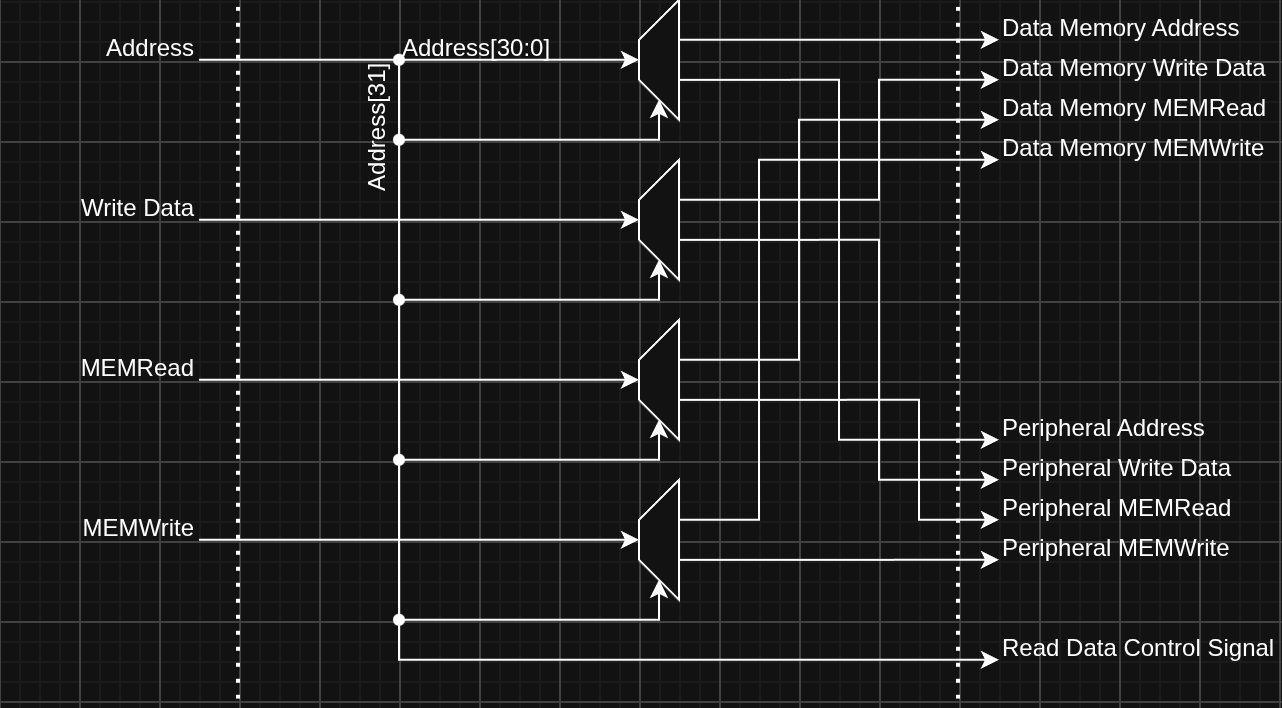
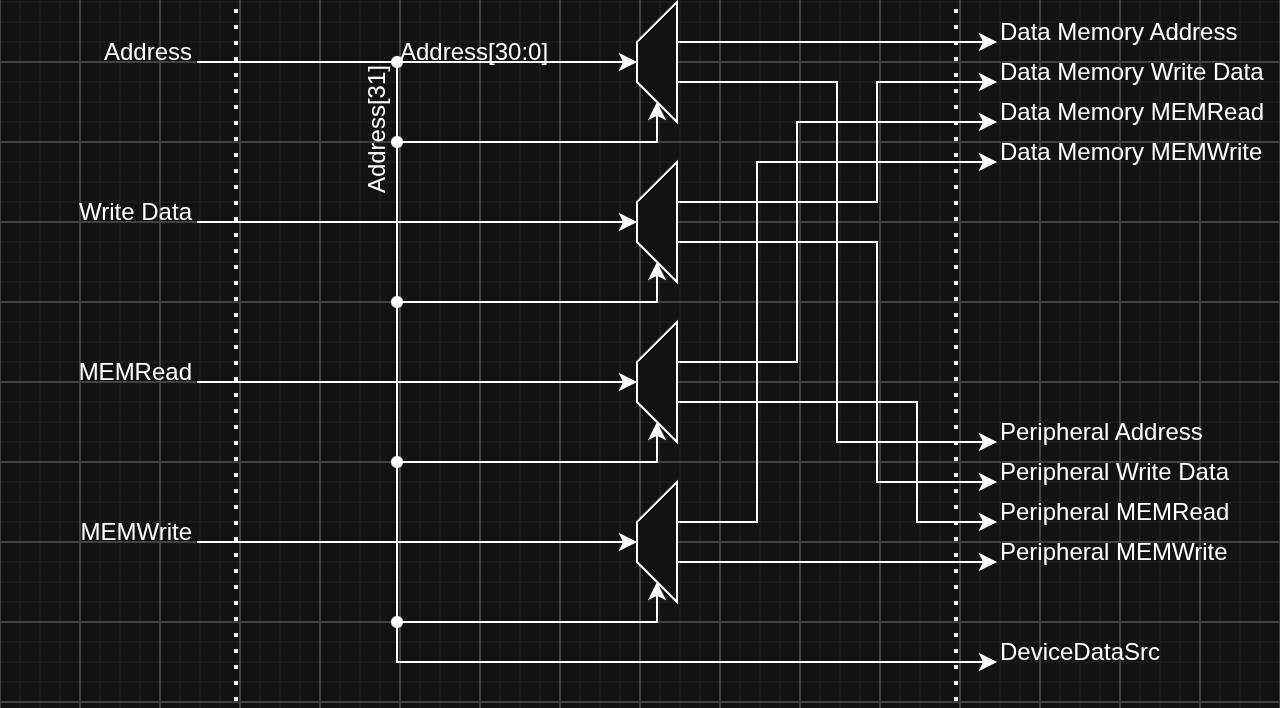
Forgot one crucial multiplexer.

diff --git a/docs/README.md b/docs/README.md
@@ -524,6 +524,9 @@ This stage return all the data from all the previous stages back to their corres
 # Hardware Design
 This section covers each component inside the processor. This is difference from the [Microarchitecture](#microarchitecture) section in that, this section goes into inner working of each hardware unit, rather than how data flow through them.<br>
 
+![Processor Diagram](./imgs/hardware_design/processor.png)
+Entire diagram of the processor.<br>
+
 The order of each component is sorted by how early they are occurred in the instruction pipeline.<br>
 ## Program Counter (PC)
 Program Counter keeps track of the current instruction address.<br>
@@ -539,6 +542,7 @@ Instruction Memory holds all the instruction that the processor will use for pro
 C0's memory is similar to Harvard Architecture's memory, meaning that instruction and data lives in difference memory. They have their own memory space.<br>
 
 ## IF/ID Interstage Registers
+![IF/ID Interstage Registers Diagram](./imgs/hardware_design/if-id_interstage_registers.png)
 Just like in the pipeline diagram, there are two registers, both are 32-bits long. They're the following.<br>
 1. Instruction Register
     - Instruction Register temporary holds instruction from [Instruction Memory](#instruction-memory).<br>
@@ -547,6 +551,7 @@ Just like in the pipeline diagram, there are two registers, both are 32-bits lon
     - This register only hold the value of the current instruction address, it's for further processing in the [EX Stage](#execute-stage-ex) of the pipeline, or by the [EU](#execution-unit-eu).<br>
 
 ## Control Unit (CU)
+![Control Unit Diagram](./imgs/hardware_design/control_unit.png)
 Control Unit is a stateless combinational logic that controls the flow of the data. It controls the flow of data by sending multiple Control Signals to multiple part of the processor.<br>
 Being a stateless combinational logic means that the CU updates its Control Signals instantly after receiving new input values.<br>
 
@@ -570,6 +575,7 @@ For reading data from two registers, there are two specific 5-bits input, both a
 For writing data into the Register File, there is 1 input for enabling the write mode, another 5-bits input for selecting the destination register, and the other is the 32-bits data that would be writing into a register.<br>
 
 ## ID/EX Interstage Registers
+![ID/EX Interstage Registers Diagram](./imgs/hardware_design/id-ex_interstage_registers.png)
 This interstage contains 12 registers. From this point on, if there are no description for specific registers that would mean they are the same as previous interstage register.<br>
 1. Extended `imm` Register
     - This stage register holds the extended form of `imm` field value from the [Immediate Assembler](#immediate-assembler), this register is 32-bits long.
@@ -598,6 +604,7 @@ This interstage contains 12 registers. From this point on, if there are no descr
 More information on Control Signal [here](#decode-stage-id).
 
 ## Execution Unit (EU)
+![Execution Unit Diagram](./imgs/hardware_design/execution_unit.png)
 Execution Unit pack multiple components for handling the [EX Stage](#execute-stage-ex) of the pipeline into one component.<br>
 
 All Execution Unit's subcomponent are listed down below.<br>
@@ -613,6 +620,7 @@ All this adder do is took the value from [PC](#program-counter-pc), and you gues
 This is specifically for handling jump instruction that link the return address, this is because the [ALU](#arithmetic-and-logic-unit-alu) will be occupied by address calculation. So, there is this small adder for calculating the next instruction address.<br>
 
 ## EX/MEM Interstage Registers
+![EX/MEM Interstage Registers Diagram](./imgs/hardware_design/ex-mem_interstage_registers.png)
 In this interstage, there will be 9 registers, mostly still Control Signal registers.<br>
 1. `PCSrc` Control Signal Register
     - This interstage register holds the Control Signal that controls the source of [PC](#program-counter-pc) between the next instruction address, and the jump address calculated by the [ALU](#arithmetic-and-logic-unit-alu). This register is only 1-bit wide.
@@ -628,11 +636,14 @@ In this interstage, there will be 9 registers, mostly still Control Signal regis
 9. [`rdWrite` Control Signal Register](#idex-interstage-registers)
 
 ## Address Decoder
+![Address Decoder Diagram](./imgs/hardware_design/address_decoder.png)
 Address Decoder identify if the address is for [Data Memory](#data-memory) or for the peripheral device. After identifying the target, it then redirects the write data, [ALU](#arithmetic-and-logic-unit-alu)'s result and Control Signals into either the [Data Memory](#data-memory) or peripheral device.<br>
 
 The Address Decoder identifies the target device by simply looking at the bit(s) for identifying the target device. Which for this case, I will use the MSB, `0` for Data Memory, and `1` for any peripheral device.<br>
 
 If the target is peripheral device, the data will be redirected to [Peripheral Controller](#peripheral-controller) for further decoding to identify the exact device.<br>
+
+Address Decoder also generates a Control Signal called `DeviceDataSrc`. That will be used by the [Device Data Read Multiplexer](#device-data-read-multiplexer).<br>
 
 ## Data Memory
 As said before in the [Instruction Memory](#instruction-memory) section, the data memory is separate from the [Instruction Memory](#instruction-memory). The processor use 31-bits address, `rs2` data and Control Flags that have been redirected from [Address Decoder](#address-decoder) for interaction with the Data Memory. This also make the largest possible data memory to be around 2GB (2GB for processor this bad? Damn).<br>
@@ -640,7 +651,11 @@ As said before in the [Instruction Memory](#instruction-memory) section, the dat
 ## Peripheral Controller
 Peripheral Controller decodes the remaining 31-bits address even further to identify the exact target peripheral, and redirect the remaining data. Essentially it is the [Address Decoder](#address-decoder) for the peripherals.
 
+## Device Data Read Multiplexer
+This multiplexer handles choosing between data from [Data Memory](#data-memory) or [Peripheral Controller](#peripheral-controller) by using the `DeviceDataSrc` Control Signal generated by the [Address Decoder](#address-decoder).<br>
+
 ## MEM/WB Interstage Registers
+![MEM/WB Interstage Registers Diagram](./imgs/hardware_design/mem-wb_interstage_registers.png)
 This interstage have 7 registers, most are not Control Signal now. They are the following.<br>
 1. [`PCSrc` Control Signal Register](#exmem-interstage-registers)
 2. [ALU Result Register](#exmem-interstage-registers)
